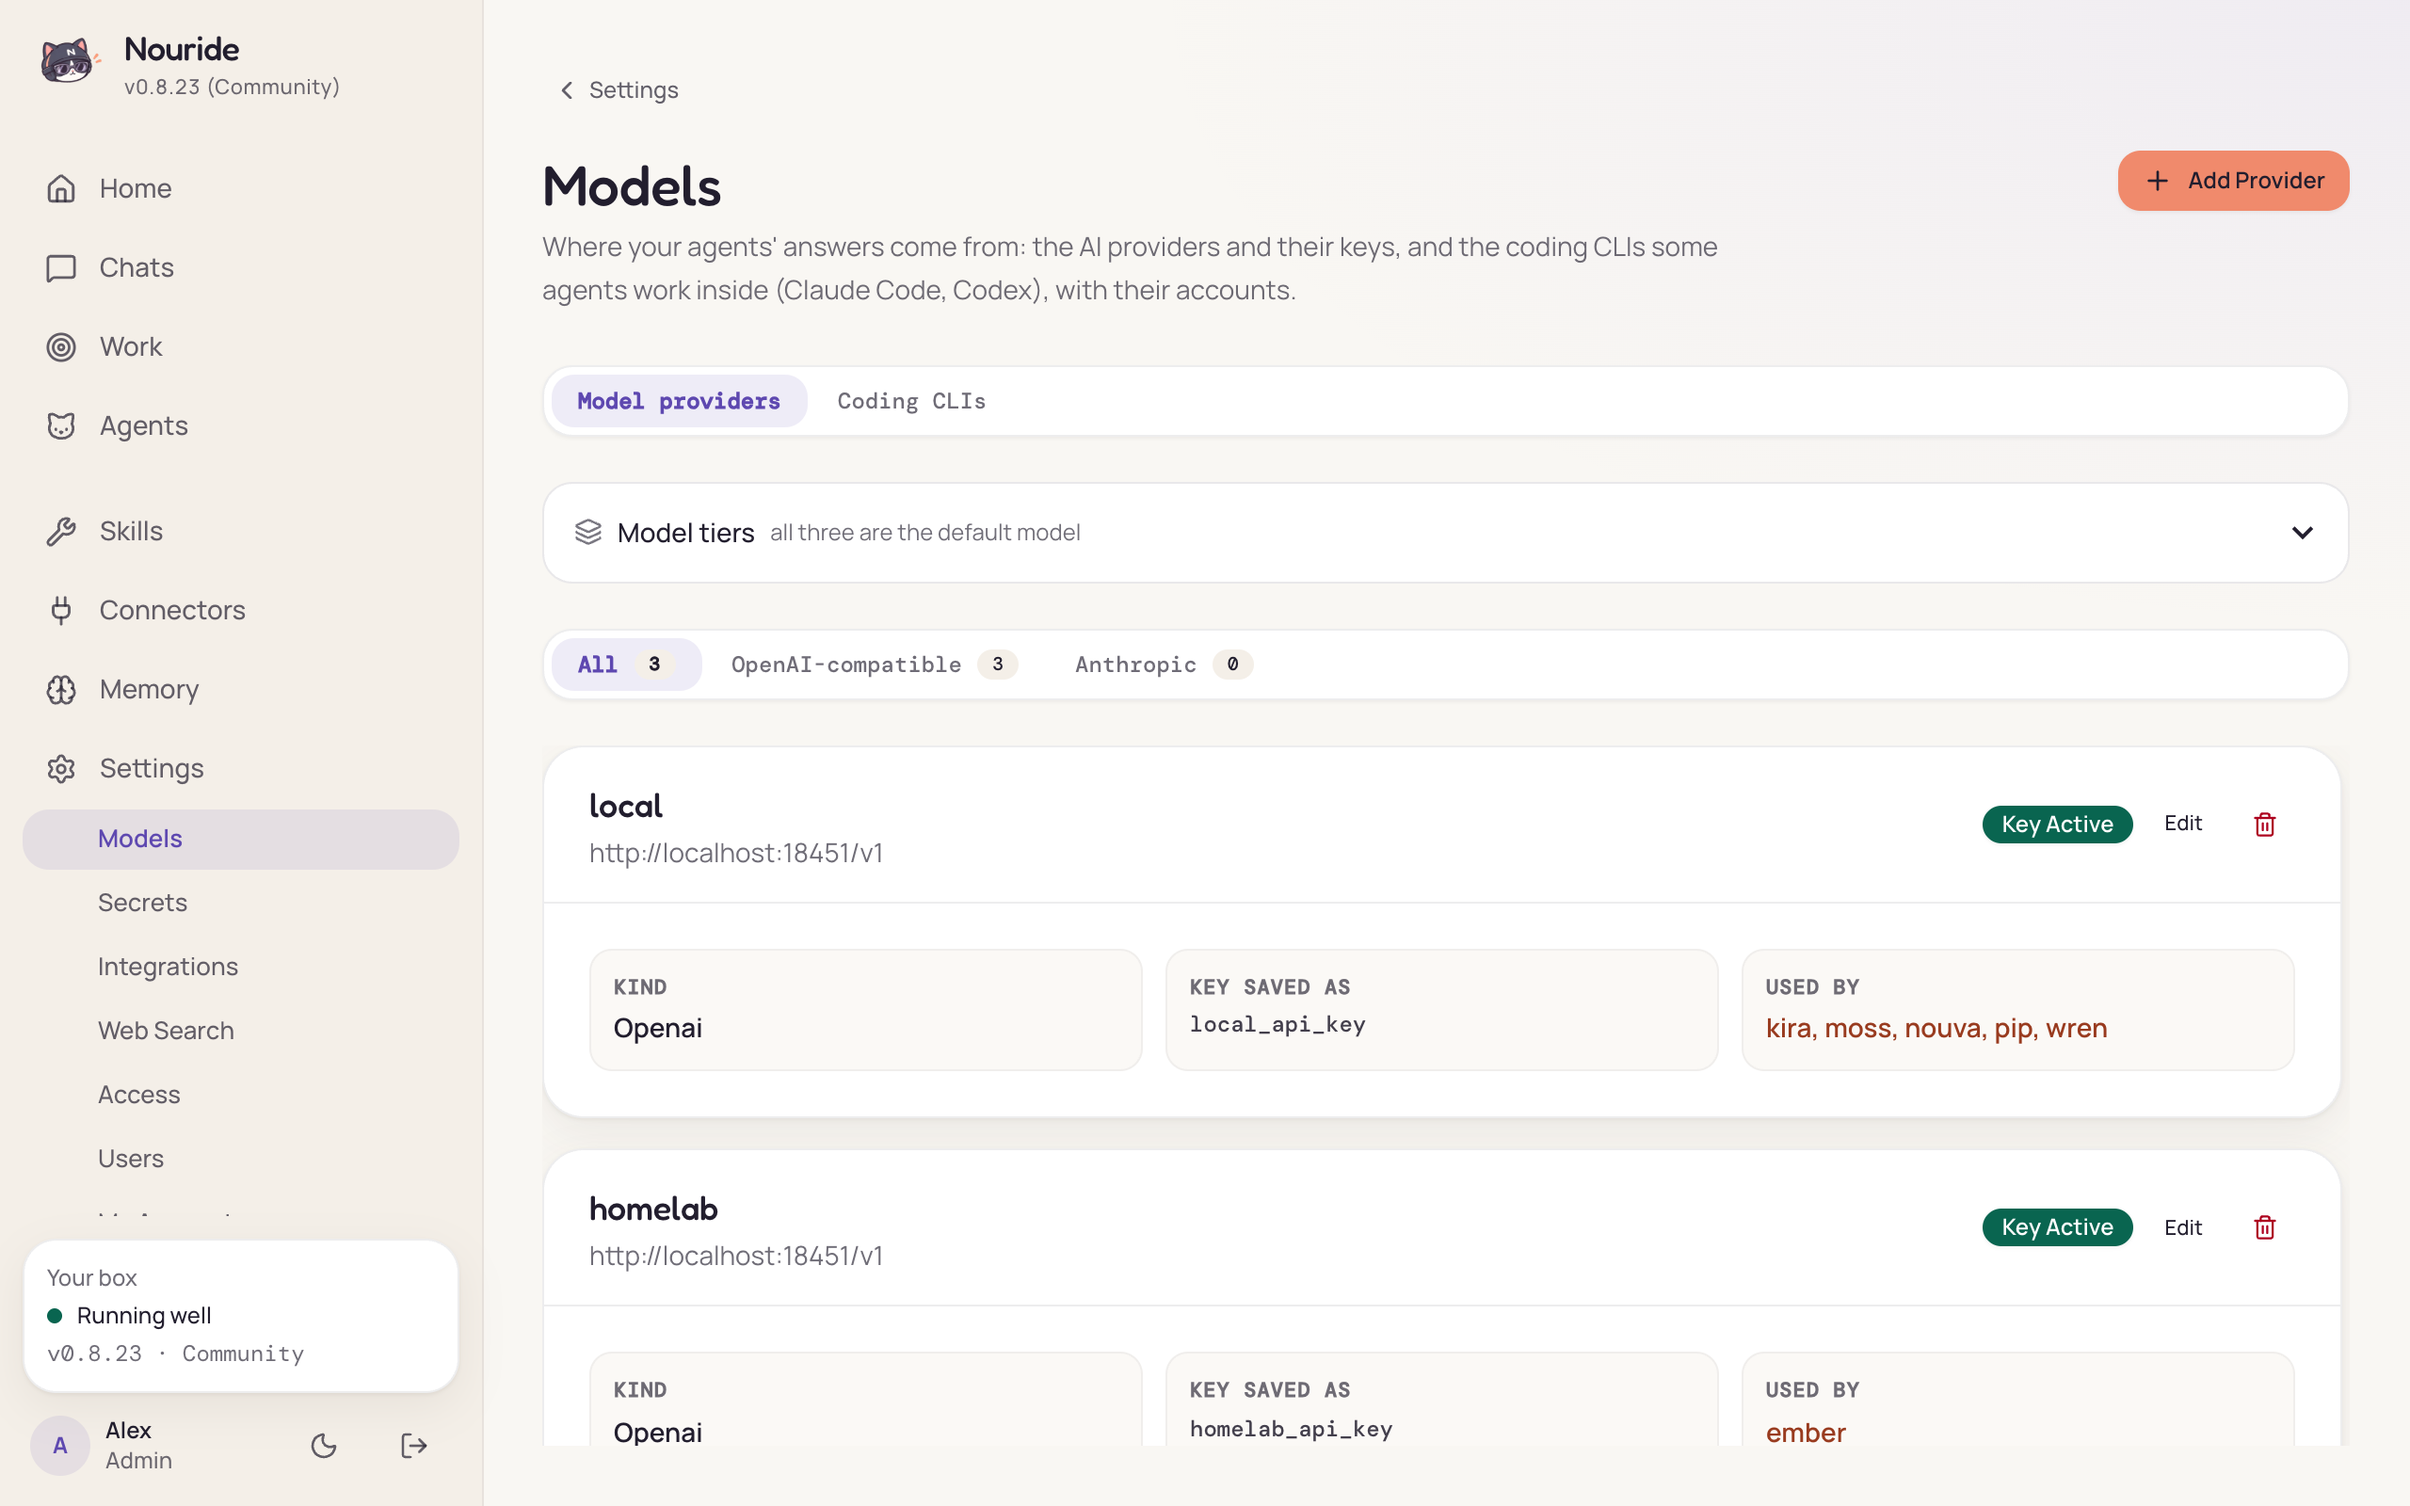
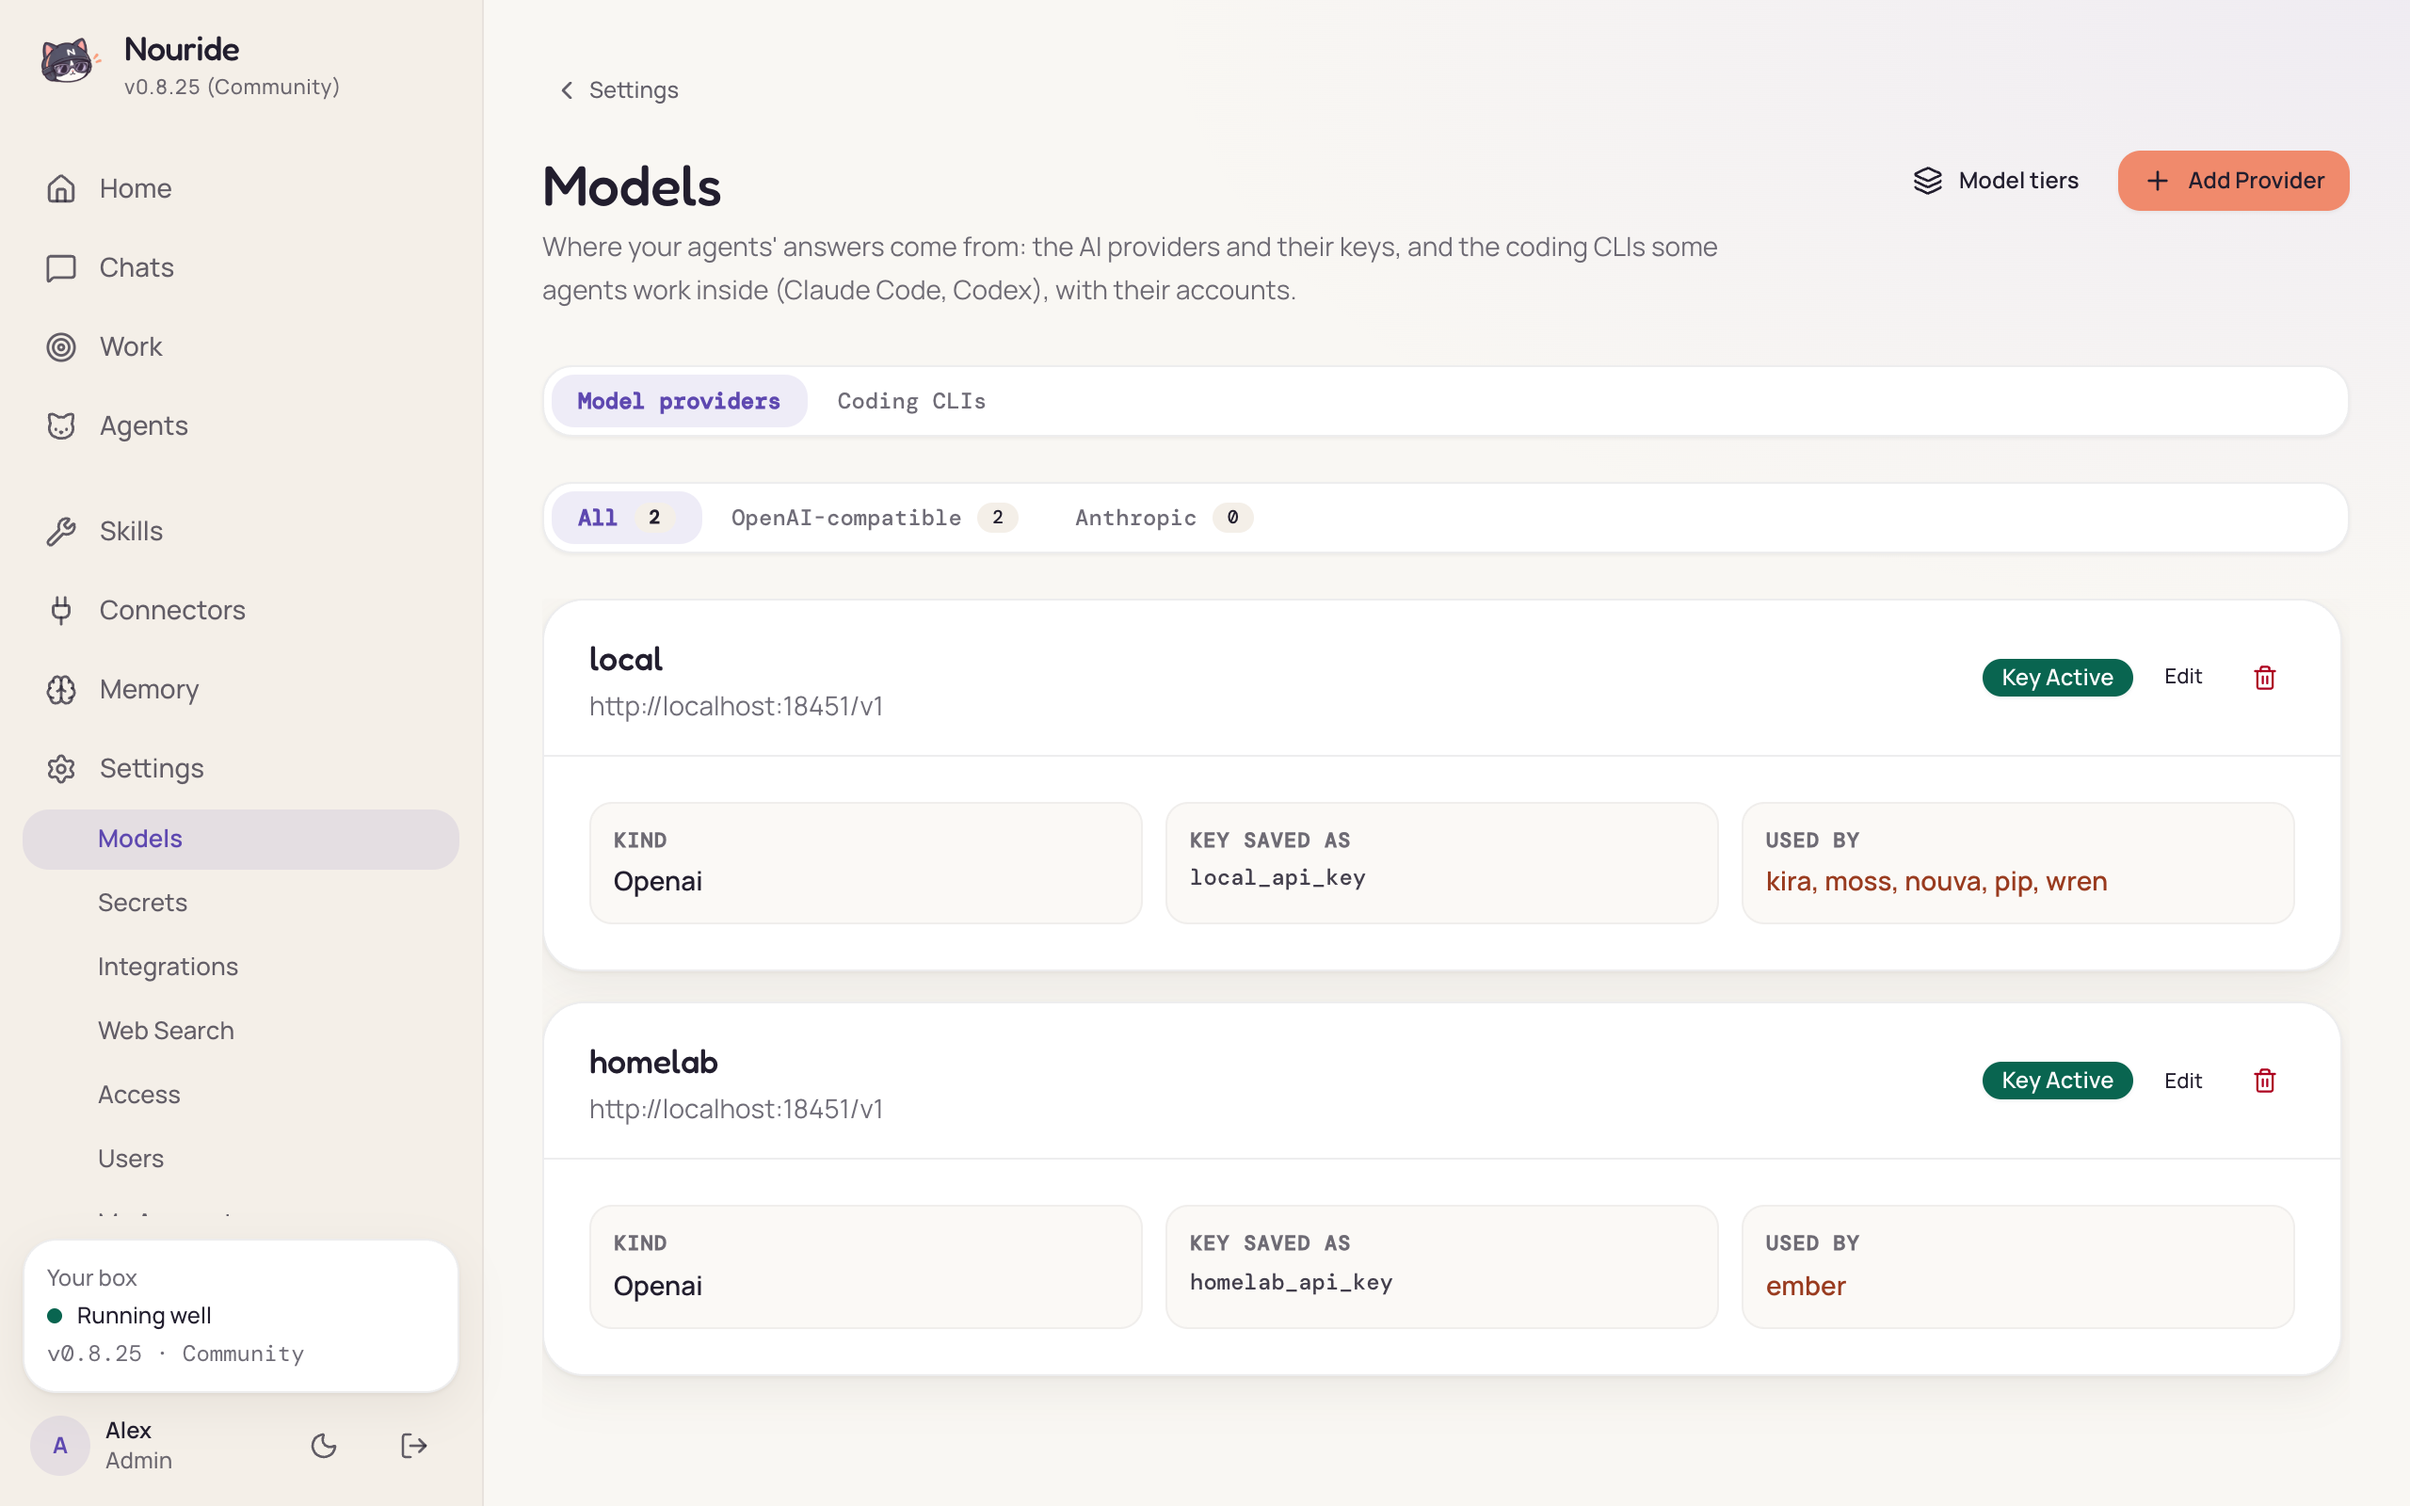
docs(release): v0.8.25's notes, and the docs' Models and Chat screenshots as the dashboard is now
The notes are the product's changes: delete in a chat's "⋯" menu, Model tiers in a window of their own,
the dashboard fitted to a phone where it spilled, the site's Android mark; most of the release is the
code's own shape, and nothing a person set up changes. Floor 0.8.0, as 0.8.24's.

The Models and Chat screenshots were retaken on a scratch install with sample data: the Model tiers
button in the header with no panel above the providers, and the chat bar's "⋯" with no bin. The
dashboard map and the config reference name the Model tiers button, in English and Indonesian.

diff --git a/docs/releases/v0.8.25.md b/docs/releases/v0.8.25.md
@@ -1,0 +1,38 @@
+---
+min-version: 0.8.0
+---
+
+**0.8.25 updates from 0.8.0 or later.** From 0.7.x, start 0.8.0 once first:
+[Upgrading to 0.8](https://nouride.com/en/docs/deployment/upgrading-to-0-8/) has the way across.
+
+On Docker, check your configuration with the new image before you switch:
+`docker run --rm -v ./nouride:/app/.nouride ghcr.io/nouverse/nouride:0.8.25 nouride config check`, with the volume your
+compose file mounts.
+
+Most of this release is Nouride's own code made tidier, so the features that come next are easier to build and to
+check. Nothing you set up changes, and your agents answer as they did.
+
+### Chats
+
+- **Deleting a chat or a room is in a "⋯" menu** at the end of the chat's top bar. The bin sat beside the other
+  buttons, and on a phone it touched the notes button: one slip from a delete that cannot be undone. A room is deleted
+  from the same menu, and the confirmation still names every agent whose conversation goes with it. The history list
+  keeps its delete on each row.
+- **A delete that fails says so**, where it said nothing.
+
+### Models
+
+- **Model tiers open from a button** beside Add Provider, in a window of their own. They sat as a panel between the
+  page's tabs and your providers and pushed the list down.
+
+### On a phone
+
+- **A skill's row uses the screen's width:** its switches sit beside its name, and its description and the agents'
+  switches run below. A long list of tools wraps inside its label instead of spilling over the description.
+- **Home's "Everything is working"** and the version beside it no longer break in the middle of a line.
+- **Under the tab bar,** the page no longer shows through the gap above the browser's own toolbar.
+- **A secret's note is shown whole,** where it was cut short and the rest showed only under a mouse pointer.
+
+### The website
+
+- **The Android tab on nouride.com's install picker** shows Android's own mark, beside Linux, Mac and Docker.

diff --git a/apps/site/src/content/docs/en/docs/reference/config.md b/apps/site/src/content/docs/en/docs/reference/config.md
@@ -299,7 +299,8 @@ the asking agent's model of that tier; an agent asked with `ask_agent` answers o
 
 A pack can name its own pair in its `[llm]`. Without one it inherits the install's while it runs on the install's
 `provider` (a model id means nothing on another endpoint), and otherwise its tiers are its `model`. The dashboard
-shows an agent's three on its Model tab, and the install's with each helper's on the Models page.
+shows an agent's three on its Model tab, and the install's with each helper's on the Models page, behind its
+**Model tiers** button.
 
 Each helper key also takes a tier's name: `summary_model`, `[memory] pass_model`, `[media] image_model`,
 `[skills.learning] model` and `[queue] steer_reply_model`. `summary_model = "small"` is each agent's own small model,

diff --git a/apps/site/src/content/docs/id/docs/reference/config.md b/apps/site/src/content/docs/id/docs/reference/config.md
@@ -307,7 +307,7 @@ lewat `ask_agent` menjawab pakai modelnya sendiri.
 Sebuah pack bisa menyebut pasangan miliknya sendiri di `[llm]`. Kalau gak, ia mewarisi milik instalasi selama ia
 jalan di `provider` instalasi (id model gak ada artinya di endpoint lain), dan selain itu semua tingkatnya ya
 `model`-nya. Dashboard menampilkan ketiga tingkat sebuah agent di tab Model-nya, dan milik instalasi beserta tingkat
-tiap helper di halaman Models.
+tiap helper di halaman Models, lewat tombol **Model tiers**.
 
 Tiap kunci helper juga menerima nama tingkat: `summary_model`, `[memory] pass_model`, `[media] image_model`,
 `[skills.learning] model`, dan `[queue] steer_reply_model`. `summary_model = "small"` berarti model small milik tiap

diff --git a/apps/site/src/content/docs/en/docs/manual/dashboard.md b/apps/site/src/content/docs/en/docs/manual/dashboard.md
@@ -55,7 +55,8 @@ Memory
 Settings
   Models and keys
     Models          Model providers: endpoint, wire format, credential;       (admin)
-                    Coding CLIs: each CLI's accounts and their sign-ins
+                    Coding CLIs: each CLI's accounts and their sign-ins;
+                    Model tiers (a button): the three tiers, each helper's
     Secrets         the credentials, what each is for, the backup password    (admin)
     LLM Gateway     the in-process Nougate: accounts, keys, usage (Router)    (admin)
   Reaching out

diff --git a/apps/site/src/content/docs/id/docs/manual/dashboard.md b/apps/site/src/content/docs/id/docs/manual/dashboard.md
@@ -55,7 +55,8 @@ Memory
 Settings
   Models and keys
     Models          Model providers: endpoint, wire format, kredensial;       (admin)
-                    Coding CLIs: akun tiap CLI dan login-nya
+                    Coding CLIs: akun tiap CLI dan login-nya;
+                    Model tiers (tombol): tiga tingkat, milik tiap helper
     Secrets         kredensial, untuk apa masing-masing, password backup      (admin)
     LLM Gateway     Nougate di dalam daemon: akun, key, pemakaian (Router)    (admin)
   Reaching out
